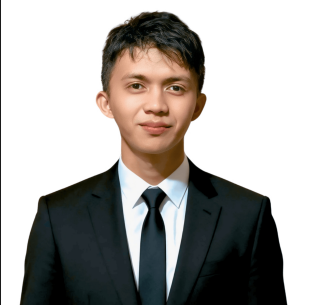
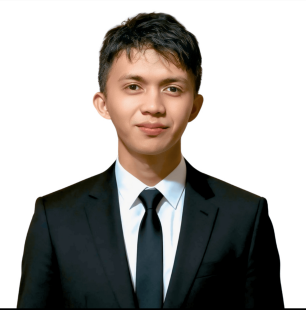
Update portfolio data: modify skills, interests, and add certificates and education details

diff --git a/data.backup.js b/data.backup.js
@@ -28,24 +28,21 @@ window.PORTFOLIO = {
         "JavaScript",
         "HTML & CSS",
         "SQL",
-        "Assembly (PIC)"
+        "Java"
       ]
     },
     {
       "group": "Frameworks & Tools",
       "items": [
         "Django",
-        "Git & GitHub",
-        "Proteus",
-        "MPLAB"
+        "Git & GitHub"
       ]
     },
     {
       "group": "Interests",
       "items": [
         "Web development",
-        "Parallel computing",
-        "Embedded systems"
+        "Game development"
       ]
     }
   ],
@@ -67,10 +64,26 @@ window.PORTFOLIO = {
       }
     }
   ],
-  "certificates": [],
+  "certificates": [
+    {
+      "title": "Networking Basics certificate ",
+      "issuer": "Cisco Networking Academy",
+      "date": "May 24, 2026",
+      "file": "assets/certificates/networking-basics-certificate-junielvill-mv8603o9.pdf",
+      "thumbnail": "assets/certificates/networking-basics-certificate-preview-mv86299h.png",
+      "credentialUrl": ""
+    }
+  ],
   "resume": {
     "file": "",
-    "education": [],
+    "education": [
+      {
+        "title": " Bachelor of Science in Computer Science",
+        "place": "Biliran Province State University",
+        "period": "2023-2026",
+        "details": ""
+      }
+    ],
     "experience": []
   }
 };
